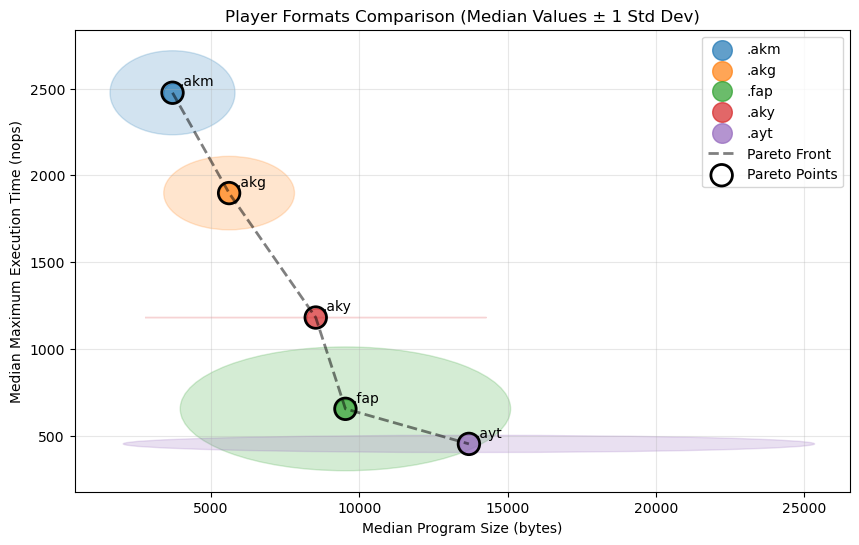
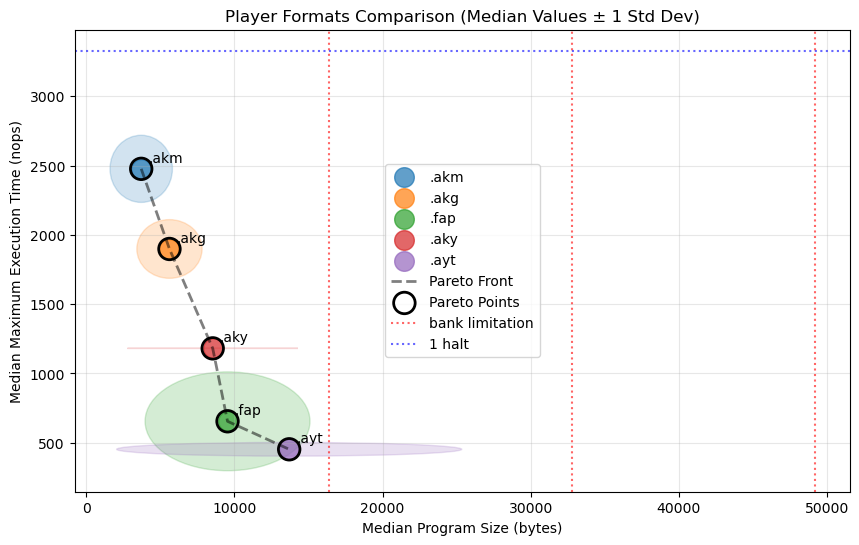
[copilote edited] Add guidance informations about size/duration

diff --git a/utils.py b/utils.py
@@ -48,7 +48,8 @@ def compute_pareto_front(df: pd.DataFrame, x_col: str, y_col: str) -> List[int]:
 
 def draw_pareto_front(ax: Any, df: pd.DataFrame, pareto_indices: List[int],
                       x_col: str, y_col: str, scatter_size: int = 180,
-                      line_style: str = 'k--', include_label: bool = True) -> None:
+                      line_style: str = 'k--', include_label: bool = True,
+                      add_bank_marker: bool = True) -> None:
     """
     Draw the Pareto front on a matplotlib axis.
     
@@ -61,6 +62,7 @@ def draw_pareto_front(ax: Any, df: pd.DataFrame, pareto_indices: List[int],
         scatter_size: Size of scatter points (default 180)
         line_style: Line style for the front (default 'k--')
         include_label: Whether to add labels to the Pareto line and points (default True)
+        add_bank_marker: Whether to add 4096 bank marker line (default True)
     """
     if pareto_indices:
         pareto_df = df.iloc[pareto_indices].sort_values(x_col)
@@ -75,3 +77,10 @@ def draw_pareto_front(ax: Any, df: pd.DataFrame, pareto_indices: List[int],
         ax.scatter(pareto_df[x_col], pareto_df[y_col],
                   s=scatter_size, facecolors='none', edgecolors='black',
                   linewidths=2, zorder=3, label=point_label)
+    
+    # Add bank marker lines
+    if add_bank_marker:
+        ax.axvline(x=16384, color='red', linestyle=':', linewidth=1.5, alpha=0.6, label='bank limitation')
+        ax.axvline(x=0x8000, color='red', linestyle=':', linewidth=1.5, alpha=0.6)
+        ax.axvline(x=0xC000, color='red', linestyle=':', linewidth=1.5, alpha=0.6)
+        ax.axhline(y=3328, color='blue', linestyle=':', linewidth=1.5, alpha=0.6, label='1 halt')

diff --git a/benchmark.py b/benchmark.py
@@ -306,8 +306,15 @@ class Benchmark:
         ax.set_xlabel("Program Size (bytes)")
         ax.set_ylabel("Maximum Execution Time (nops)")
         ax.set_title("Program Size vs Maximum Execution Time by Player Format")
-        ax.legend()
         ax.grid(True, alpha=0.3)
+
+        # Add reference lines
+        ax.axvline(x=16384, color='red', linestyle=':', linewidth=1.5, alpha=0.6, label='bank limitation')
+        ax.axvline(x=0x8000, color='red', linestyle=':', linewidth=1.5, alpha=0.6)
+        ax.axvline(x=0xC000, color='red', linestyle=':', linewidth=1.5, alpha=0.6)
+        ax.axhline(y=3328, color='blue', linestyle=':', linewidth=1.5, alpha=0.6, label='1 halt')
+        
+        ax.legend()
 
         scatter_png = f"reports/scatter_prog_size_vs_exec_time_{self.name}.png"
         try:
